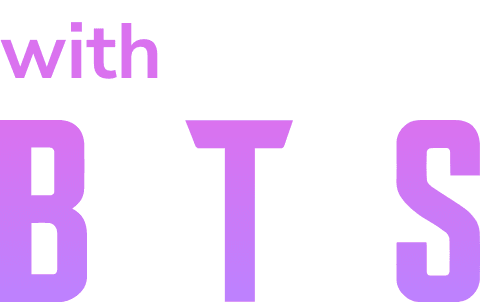
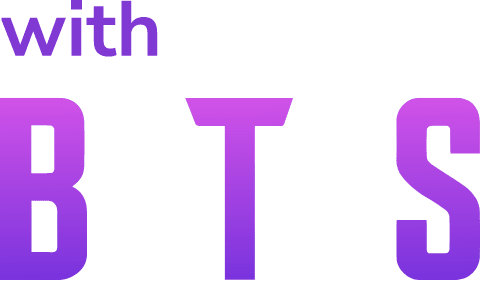
feat: 메인페이지 수정사항 반영

diff --git a/src/components/home/MainBannerSlide.jsx b/src/components/home/MainBannerSlide.jsx
@@ -4,7 +4,7 @@ import VideoJS from '../../components/Video';
 
 const MainBannerSlide = () => {
   return (
-    <div className="h-[525px] xl:h-[80vh]">
+    <div className="h-[525px] xl:h-[80vh] max-h-[1080px] relative">
       <Swiper
         modules={[Pagination, Navigation, Autoplay]}
         speed={2500}
@@ -18,32 +18,50 @@ const MainBannerSlide = () => {
         className="mainBannerSlider"
       >
         <SwiperSlide>
-          <div className="flex justify-center items-center flex-col relative z-10">
+          <div className="flex justify-center items-center flex-col relative z-20">
             <img
               src="/img/bts_logo.png"
+              srcset="/img/bts_logo@2x.png 2x,
+                        /img/bts_logo@3x.png 3x"
               alt="BTS"
               className="!w-auto !h-auto"
             />
-            <div className="text-white">
+            <div className="text-white mt-[26px]">
               <p className="text-[60px] font-extrabold">HEADING ISLAND LIFE</p>
               <p className="text-[21px]">
                 3DPuzzle Game width BTS character and space decoration
               </p>
             </div>
+            <div className="mt-[46px] flex gap-x-[20px]">
+              <img
+                src="/img/btn-googleplay.png"
+                srcset="/img/btn-googleplay@2x.png 2x,
+                          /img/btn-googleplay@3x.png 3x"
+              />
+              <img
+                src="/img/btn-appstore.png"
+                srcset="/img/btn-appstore@2x.png 2x,
+                          /img/btn-appstore@3x.png 3x"
+              />
+            </div>
           </div>
-          <img
-            src="/img/img-main@3x.png"
-            alt=""
-            className="absolute object-cover"
-          />
+          <div className="absolute max-w-[1920px] w-full h-full z-10 left-1/2 top-1/2 -translate-x-1/2 -translate-y-1/2">
+            <img src="/img/img-main@3x.png" alt="" className="w-full h-full" />
+          </div>
+          <div className="absolute w-full h-full overflow-hidden">
+            <img
+              src="/img/img-main@3x.png"
+              alt=""
+              className="blur-[50px] scale-110"
+            />
+          </div>
         </SwiperSlide>
         <SwiperSlide>
           {/* <!-- chrome 정책으로 영상 자동 재생 시 muted 상태로 autoplay 재생가능 참고문서: https://developer.chrome.com/blog/autoplay/--> */}
+          <div className="w-full h-full absolute bg-black"></div>
           <VideoJS
             options={{
               muted: true,
-              controls: true,
-              autoplay: true,
               poster: '/video/poster.png',
               sources: [
                 {
@@ -72,13 +90,37 @@ const MainBannerSlide = () => {
               </p>
             </div>
           </div>
-          <img
-            src="/img/img-video-thumb@3x.png"
-            alt=""
-            className="absolute object-cover"
-          />
+          <div className="absolute max-w-[1920px] w-full h-full z-10 left-1/2 top-1/2 -translate-x-1/2 -translate-y-1/2">
+            <img
+              src="/img/img-video-thumb.png"
+              srcset="/img/img-video-thumb@2x.png 2x,
+                          /img/img-video-thumb@3x.png 3x"
+              className="w-full h-full"
+            />
+            <div className="w-full h-full absolute top-0 left-0 bg-black bg-opacity-30" />
+            <img
+              src="/img/img-pattern.png"
+              srcset="/img/img-pattern@2x.png 2x,
+                          /img/img-pattern@3x.png 3x"
+              className="w-full h-full absolute top-0 left-0"
+            />
+          </div>
+          <div className="absolute w-full h-full overflow-hidden">
+            <img
+              src="/img/img-video-thumb@3x.png"
+              alt=""
+              className="blur-[50px]"
+            />
+          </div>
         </SwiperSlide>
       </Swiper>
+      <div className="h-[57px] absolute bottom-[20px] left-1/2 -translate-x-1/2 z-10">
+        <img
+          src="/img/icon-scroll.png"
+          srcset="/img/icon-scroll@2x.png 2x,
+              /img/icon-scroll@3x.png 3x"
+        />
+      </div>
     </div>
   );
 };

diff --git a/src/pages/home.jsx b/src/pages/home.jsx
@@ -22,11 +22,13 @@ const Main = () => {
             <div className="grid xl:grid-cols-[270px,auto]">
               <div className="xl:min-h-[490px] relative">
                 <div className="flex xl:flex-col justify-between #xl:px-[30px] #xl:container #xl:mx-auto">
-                  <div>
+                  <div className="max-w-[160px]">
                     <img
-                      className="h-[55px] xl:h-[93px] w-auto"
-                      src="/img/img-withbts-title@3x.png"
+                      src="/img/img-withbts-title.png"
+                      srcset="/img/img-withbts-title@2x.png 2x,
+                            /img/img-withbts-title@3x.png 3x"
                       alt="with BTS"
+                      className="h-[55px] xl:h-[93px] w-auto"
                     />
                     <div className="my-[30px] hidden xl:block">
                       <p>BTS가 개발에 직접 참여한 인더섬 업데이트 소식</p>
@@ -54,10 +56,7 @@ const Main = () => {
           <div className="magazine__header xl:h-full xl:absolute top-0 left-[var(--container-px)] z-10 bg-gradient-to-r from-white via-white">
             <div className="flex xl:flex-col justify-between">
               <div className="w-[160px]">
-                <img
-                  src="/img/img-madebyarmy-title@3x.png"
-                  alt="with BTS"
-                />
+                <img src="/img/img-madebyarmy-title@3x.png" alt="with BTS" />
                 <div className="text-[22px] font-bold whitespace-nowrap text-justify">
                   주간 인더섬 매거진
                 </div>

diff --git a/src/pages/game/introduction.jsx b/src/pages/game/introduction.jsx
@@ -17,7 +17,7 @@ const Main = () => {
   const swiperNavNext = useRef(null);
   return (
     <>
-      <section className="my-[96px]">
+      <section className="my-[96px] overflow-hidden">
         <div className="container mx-auto">
           <div className="mb-[58px]">
             <HeaderSection
